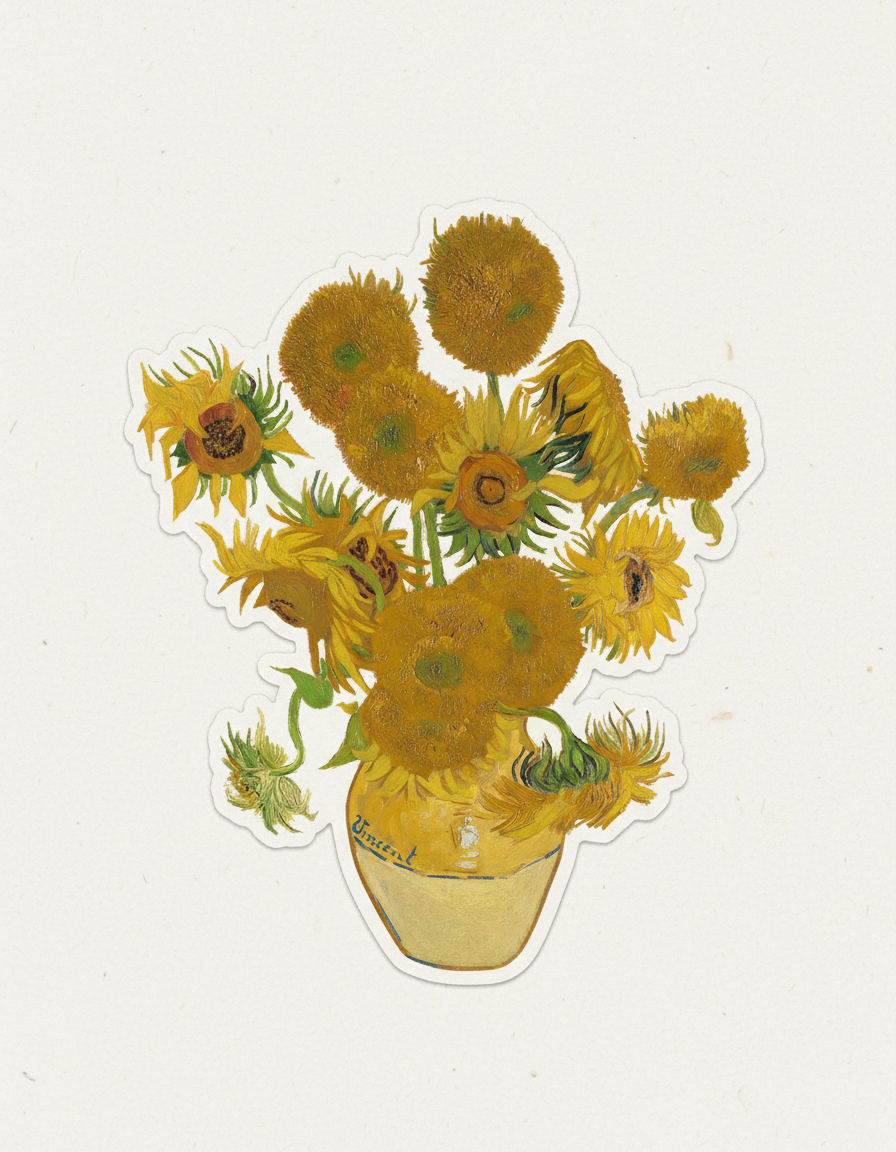
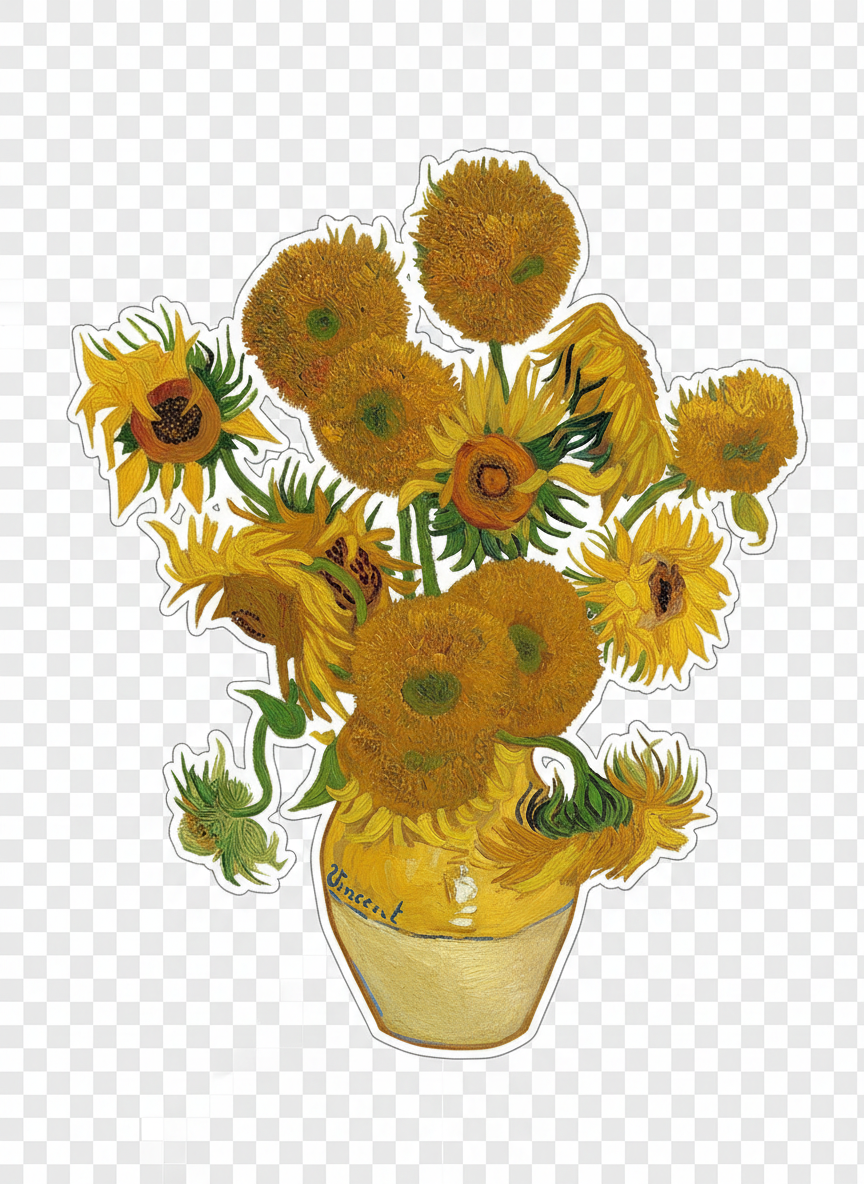
Changes

Changed region(s): [[0.0625, 0.125, 0.9375, 0.9062]]

diff --git a/src/data/artworkImages.ts b/src/data/artworkImages.ts
@@ -103,5 +103,9 @@ export const artworkStickerImages: Record<string, string> = {
 /** Pre-made transparent cutouts — used instead of runtime segmentation when available */
 export const artworkCutoutImages: Record<string, string> = {
   rose: rosesCutoutImg,
-  sunflower: sunflowerCutoutImg,
+  sunflower: sunflowersStickerImg,
+  "almond-blossom": almondBlossomStickerImg,
+  iris: irisesStickerImg,
+  oleander: vangoghOleandersStickerImg,
+  "golden-bouquet": boncompainBouquetJauneStickerImg,
 };
